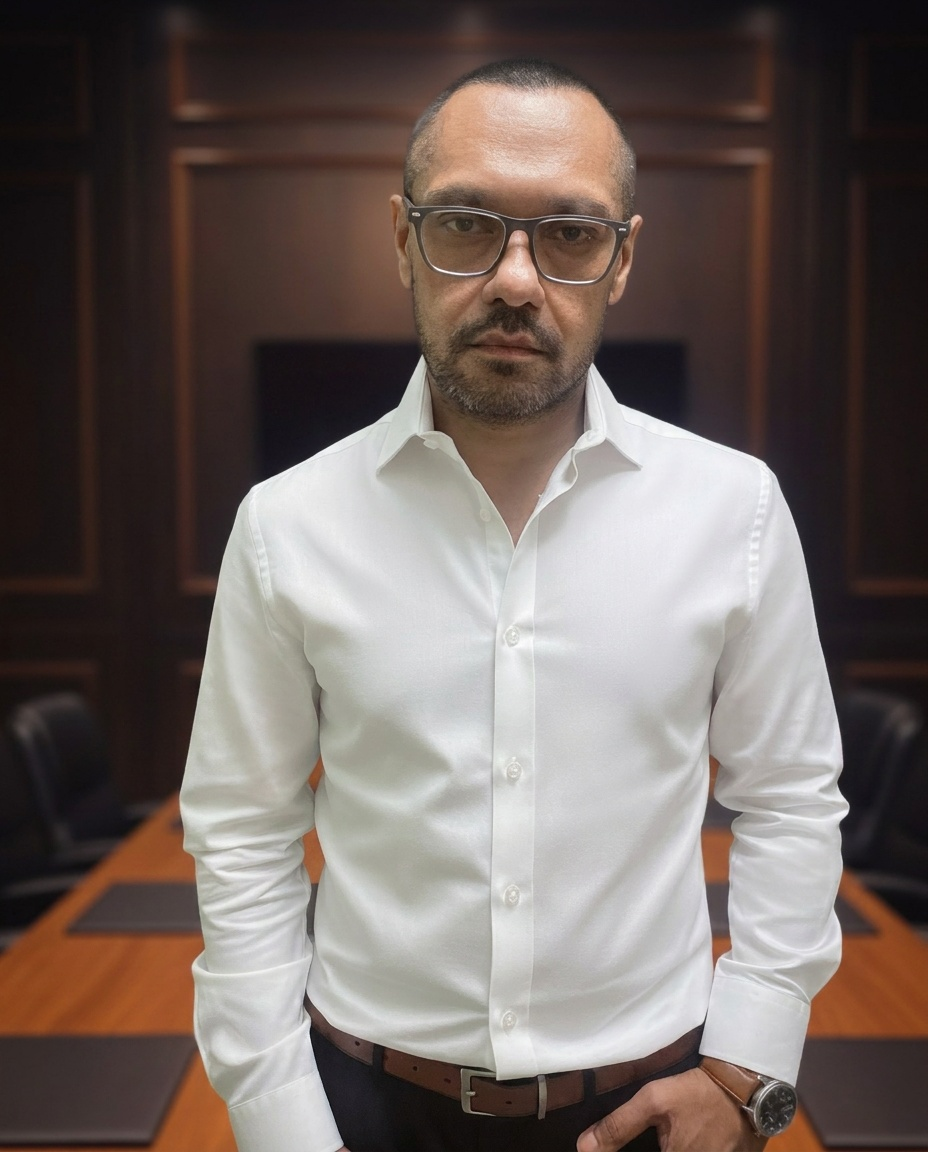
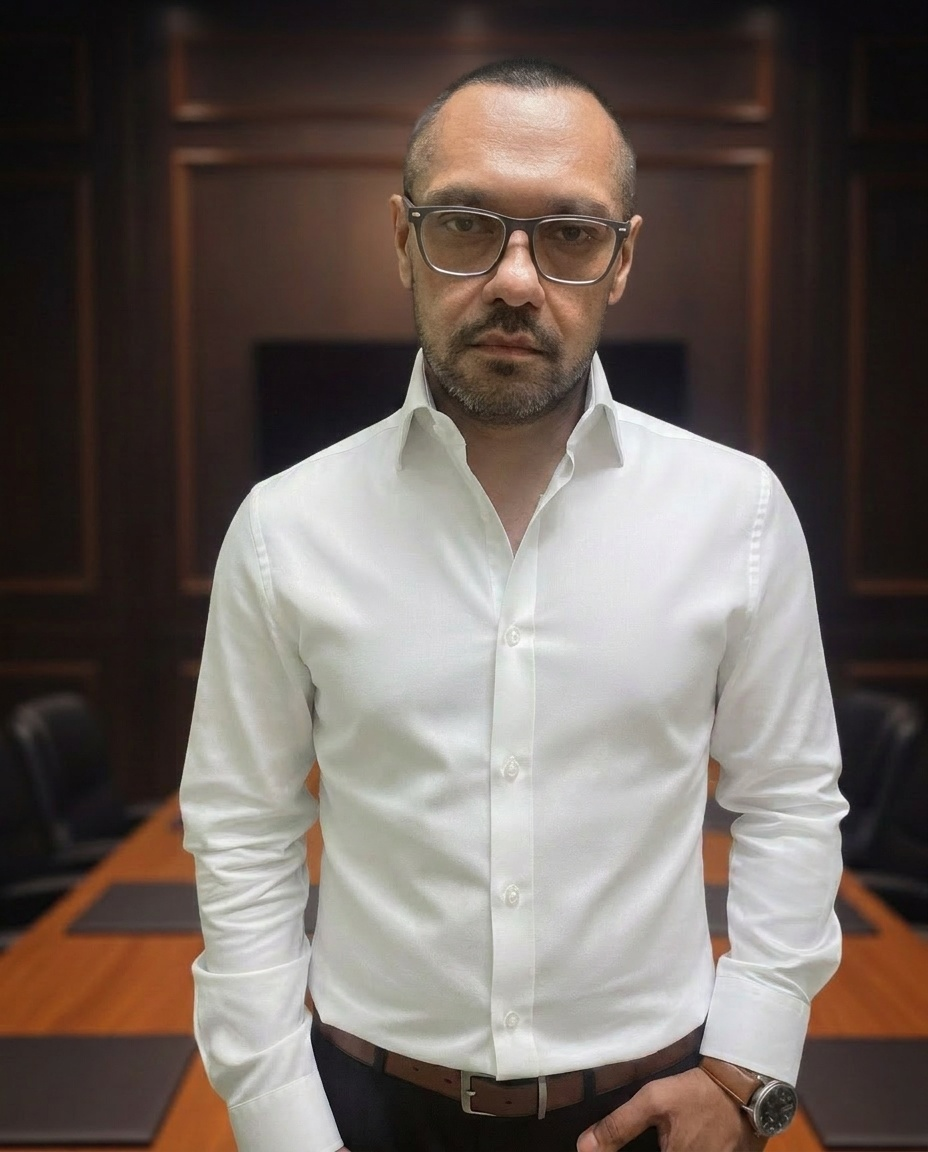
v3.3.2: portrait — focused right-arm + lower-stomach Pro pass
User feedback on v3.3.1: right arm sleeve still had visible
wrinkles, plus wanted slight further flattening of the lower
stomach area only (between bottom buttons and belt line).

Single Pro pass on PRO-B-collar-stomach.jpg with two focused edits:
  - SUBJECT'S RIGHT ARM (left side of image, no watch): aggressive
    smoothing shoulder-to-cuff, eliminated elbow/forearm wrinkles
  - LOWER STOMACH: subtle ~5-7% flatten of the section between
    bottom buttons and belt line only (upper chest unchanged)

Everything else explicitly preserved:
  - Collar wings standing upright (the v3.3.1 result was great)
  - OTHER arm with watch — untouched
  - Face: still neutral, no glow
  - Background: original boardroom, no sconces, no new elements
  - Hand-in-pocket, watch, belt, brown strap, buckle, trousers
  - Vignette, eye clarity, crop, identity, posture

V3-Clean folder:
  PRO-C-arm-lower.jpg <-- shipped as portrait.jpg

Cache-buster: portrait.jpg?v=3.3.1 -> ?v=3.3.2

diff --git a/index.html b/index.html
@@ -388,7 +388,7 @@
         <div class="about-grid">
           <figure class="portrait-figure">
             <div class="portrait-artwork">
-              <img src="assets/portrait.jpg?v=3.3.1"
+              <img src="assets/portrait.jpg?v=3.3.2"
                    alt="Taran Aujla, Salesperson with HomeLife G1 Realty Inc., Brokerage. Editorial portrait."
                    width="880" height="1184"
                    loading="lazy" decoding="async" />
